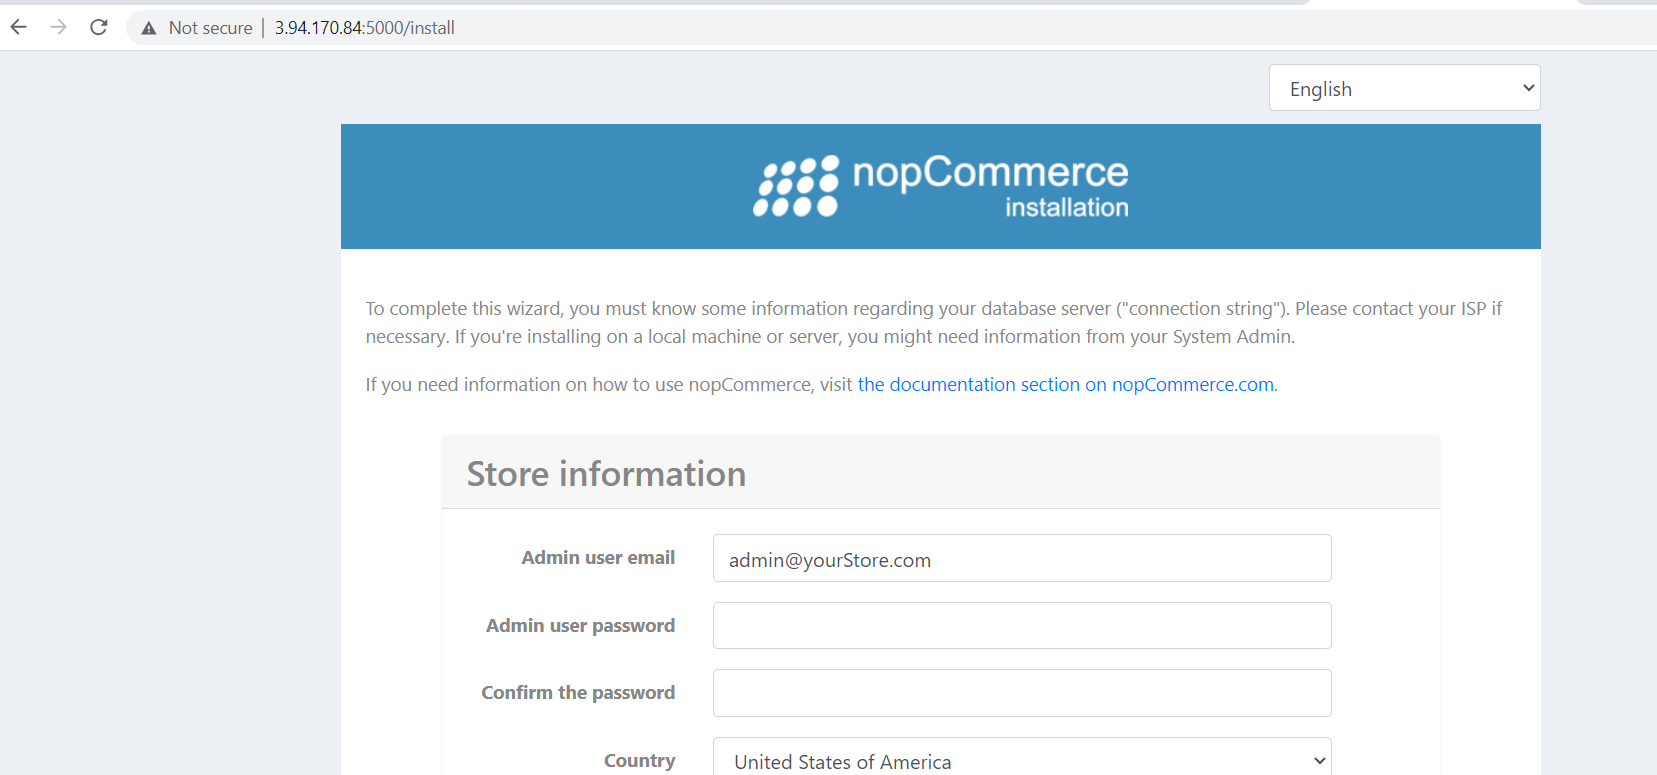
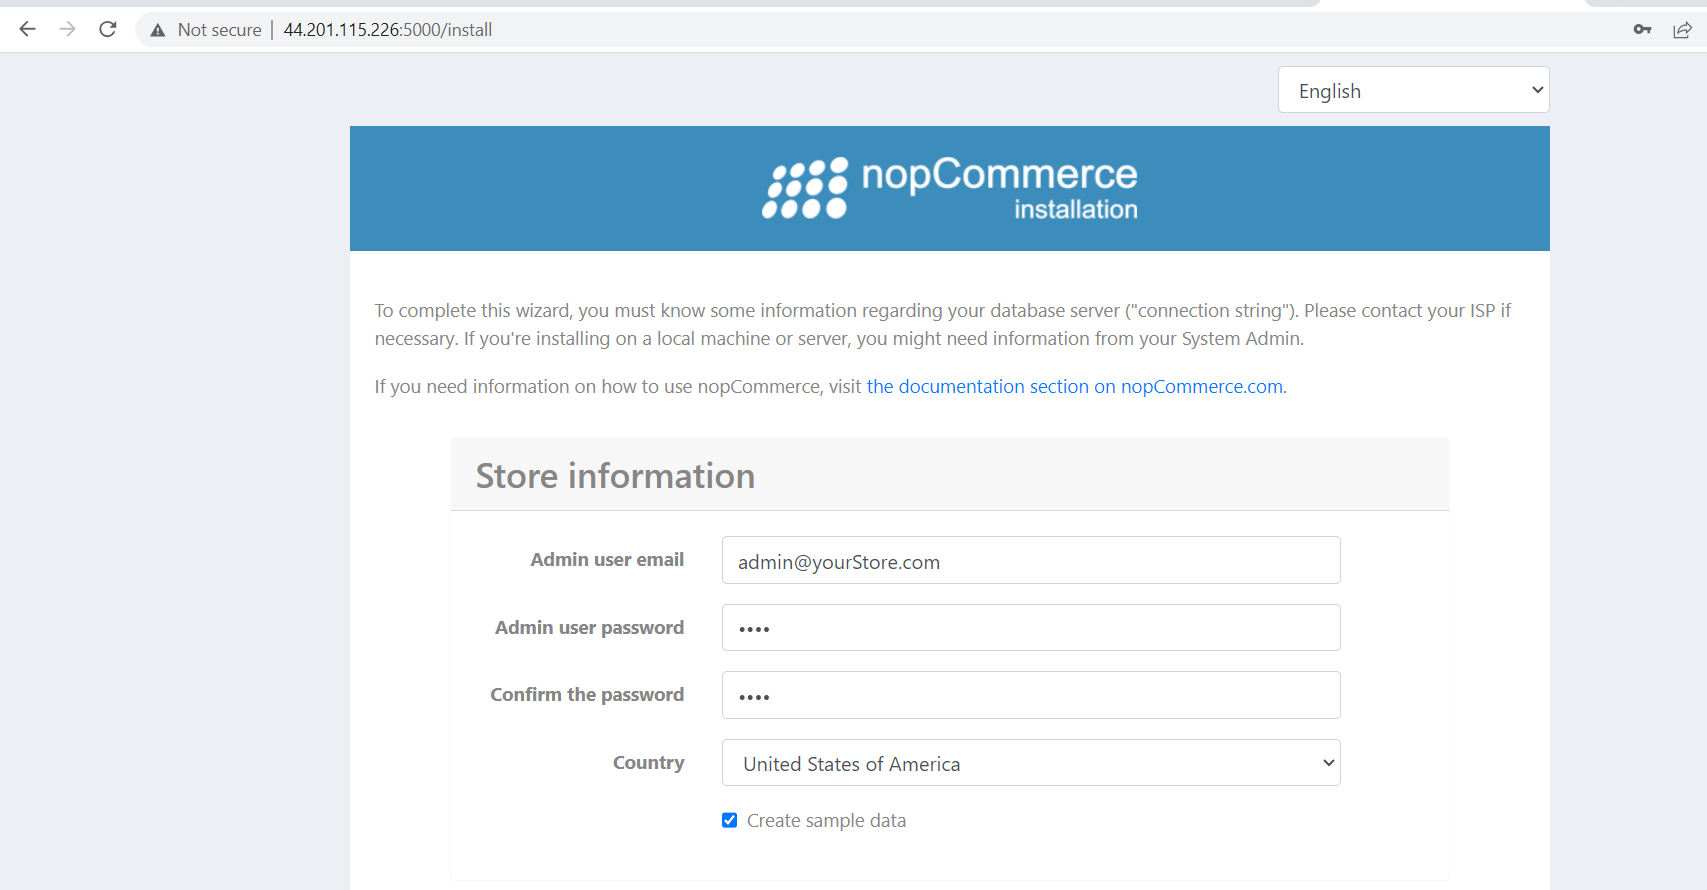
added spc playbook

diff --git a/README.md b/README.md
@@ -631,6 +631,7 @@ sudo apt install ansible -y
 * After role creation by using `sftp` to download the role into your local system by using `get -r <name_of_role>`
 * write a playbook to call nopcommerce with mysql role
 * Before using mysql role install mysql role into your machine by using `ansible-galaxy install geerlingguy.mysql`
+* Grant the privileges to mysql
 ```yaml
 ---
 - name: install nopcommerce using role
@@ -646,8 +647,11 @@ sudo apt install ansible -y
 * `ansible-playbook -i inventory/hosts Ansible_practice/ansible_role/nop.yaml`
 ![preview](images/ansbl25.png)
 ![preview](images/ansbl26.png)
+![preview](images/ansbl28.1.png)
 ![preview](images/ansbl27.png)
 ![preview](images/ansbl28.png)
+![preview](images/ansbl28.2.png)
+
 # Mysql_role
 * Install mysql role by using `ansible-galaxy install geerlingguy.mysql`
 * write a playbook to call mysql role 
